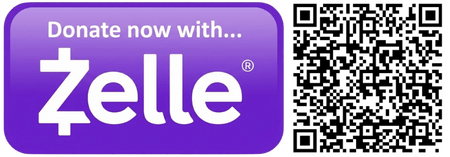
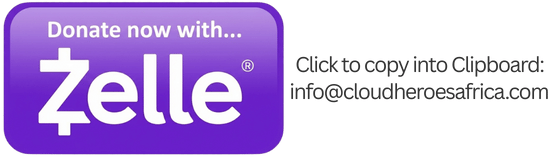
new zelle copy to clipboard process

diff --git a/index.html b/index.html
@@ -36,47 +36,10 @@
                 <div class="modal-body">
                     <div class="modal-image"></div>
                     <div class="modal-text">
-                        <h2>Thank you for your interest in donating.</h2>
+                        <h3>info@cloudheroesafrica.com copied to Clipboard!</h3>
                         <br/>
-                        We are currently in the process of obtaining our 501(c)(3) charitable status and are unable to accept donations at this time.<br/>
+                        Log into your banking mobile app or website, find the Zelle section, add a trusted recipient: info@cloudheroesafrica.com<br/>
                         <br/>
-                        Please signup for our mailing list to be notified of future updates.<br/>
-                        <br/>
-                        <!-- Begin Mailchimp Signup Form -->
-                        <div id="mc_embed_signup">
-                            <form action="https://cloudheroesafrica.us14.list-manage.com/subscribe/post?u=039a089cdb85bc1e7c54c92d3&amp;id=bdab773cdd&amp;f_id=000d85e0f0" method="post" id="mc-embedded-subscribe-form" name="mc-embedded-subscribe-form" class="validate" target="_blank" novalidate>
-                                <div id="mc_embed_signup_scroll">
-                                   
-                                    <div class="mc-field-group">
-                                        <label for="mce-EMAIL">Email*</label>
-                                        <input type="email" value="" name="EMAIL" class="required email" id="mce-EMAIL" required>
-                                        <span id="mce-EMAIL-HELPERTEXT" class="helper_text"></span>
-                                    </div>
-                                    <div class="mc-field-group">
-                                        <label for="mce-FNAME">First Name*</label>
-                                        <input type="text" value="" name="FNAME" class="required" id="mce-FNAME" required>
-                                        <span id="mce-FNAME-HELPERTEXT" class="helper_text"></span>
-                                    </div>
-                                    <div class="mc-field-group">
-                                        <label for="mce-LNAME">Last Name*</label>
-                                        <input type="text" value="" name="LNAME" class="required" id="mce-LNAME" required>
-                                        <span id="mce-LNAME-HELPERTEXT" class="helper_text"></span>
-                                    </div>
-                                    <div id="mce-responses" class="clear foot">
-                                        <div class="response" id="mce-error-response" style="display:none"></div>
-                                        <div class="response" id="mce-success-response" style="display:none"></div>
-                                    </div>    <!-- real people should not fill this in and expect good things - do not remove this or risk form bot signups-->
-                                    <div style="position: absolute; left: -5000px;" aria-hidden="true"><input type="text" name="b_039a089cdb85bc1e7c54c92d3_bdab773cdd" tabindex="-1" value=""></div>
-                                        <div class="optionalParent">
-                                            <div class="clear foot">
-                                                <input type="submit" value="Signup" name="subscribe" id="mc-embedded-subscribe" class="button">
-                                            </div>
-                                        </div>
-                                    </div>
-                            </form>
-                            </div>
-                        <script type='text/javascript' src='//s3.amazonaws.com/downloads.mailchimp.com/js/mc-validate.js'></script><script type='text/javascript'>(function($) {window.fnames = new Array(); window.ftypes = new Array();fnames[0]='EMAIL';ftypes[0]='email';fnames[1]='FNAME';ftypes[1]='text';fnames[2]='LNAME';ftypes[2]='text';fnames[3]='ADDRESS';ftypes[3]='address';fnames[4]='PHONE';ftypes[4]='phone';fnames[5]='BIRTHDAY';ftypes[5]='birthday';}(jQuery));var $mcj = jQuery.noConflict(true);</script>
-                        <!--End mc_embed_signup-->  
                     </div>
                 </div>
             </div>
@@ -808,7 +771,8 @@
                                 </form>
                             </div>
                             <div class="col-lg-6 col-12 text-center ms-auto">
-                                <img src="images/donate/zelle.png" class="img-fluid" alt="Zelle Donate">
+
+                                <img src="images/donate/zelle.png" class="img-fluid modal-window" style="cursor: pointer;" alt="Zelle Donate" onclick="copyText()">
                             </div>
                         </div>
                 </div>
@@ -899,5 +863,20 @@
         <script src="js/counter.js"></script>
         <script src="js/custom.js"></script>
         <script src="js/modal.js"></script>
+        <script>
+            function copyText() {
+            // Get the text content from the element
+            let text = "info@cloudheroesafrica.com";
+
+            // Use the Clipboard API to write the text
+            navigator.clipboard.writeText(text).then(function() {
+                // Success feedback (optional)
+                console.log('Text successfully copied to clipboard');
+            }).catch(function(err) {
+                // Error feedback (optional)
+                console.error('Could not copy text: ', err);
+            });
+            }
+        </script>
     </body>
 </html>
